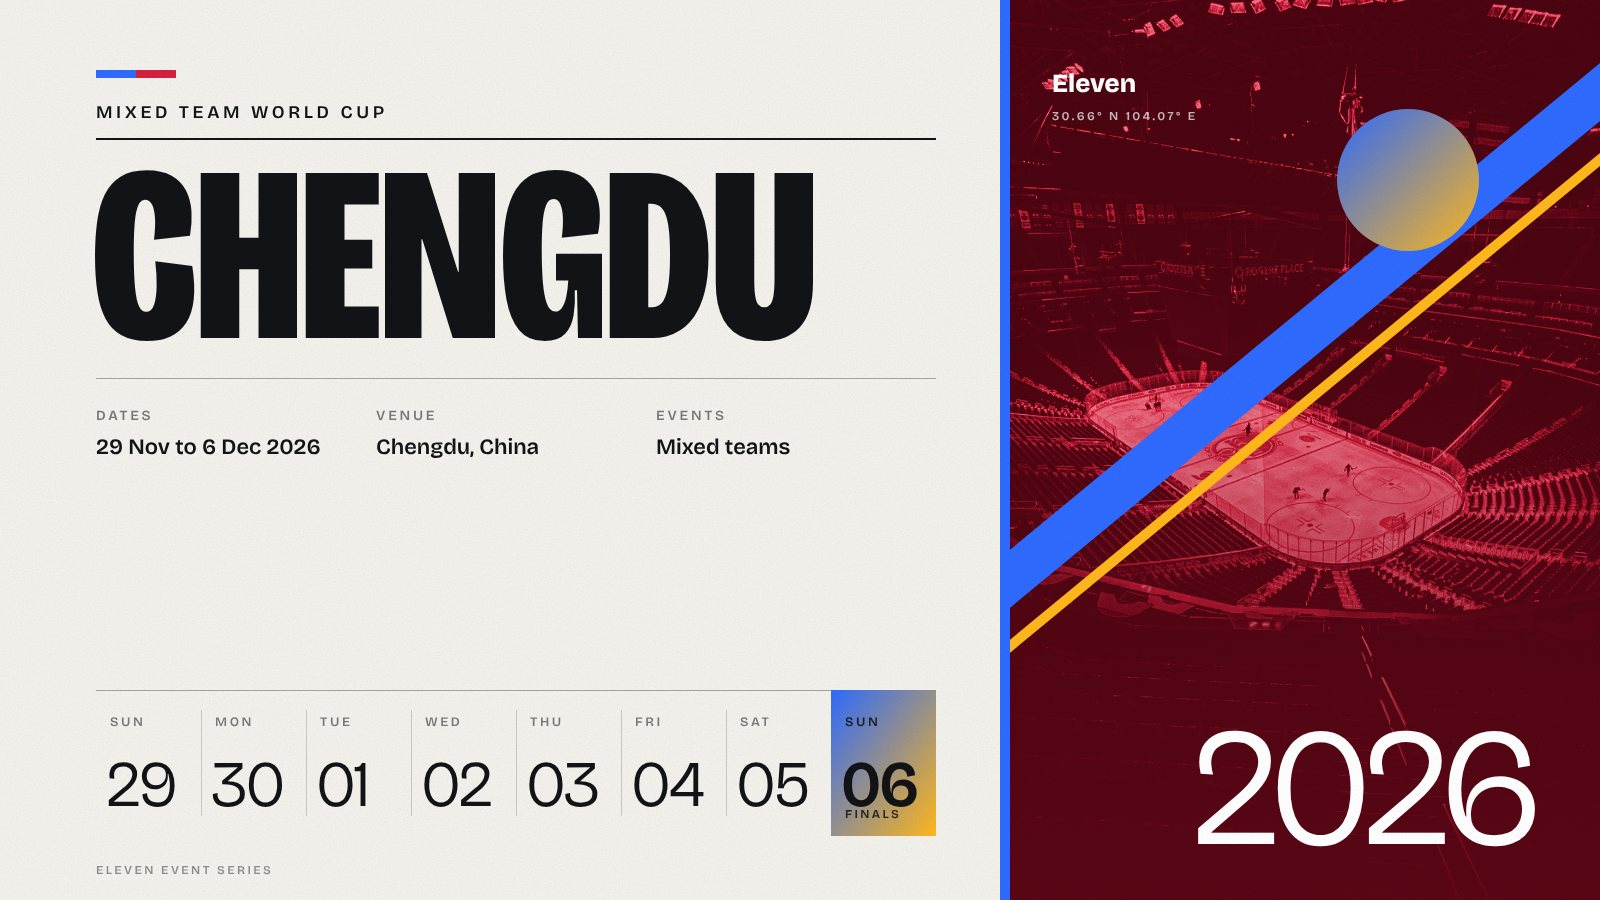
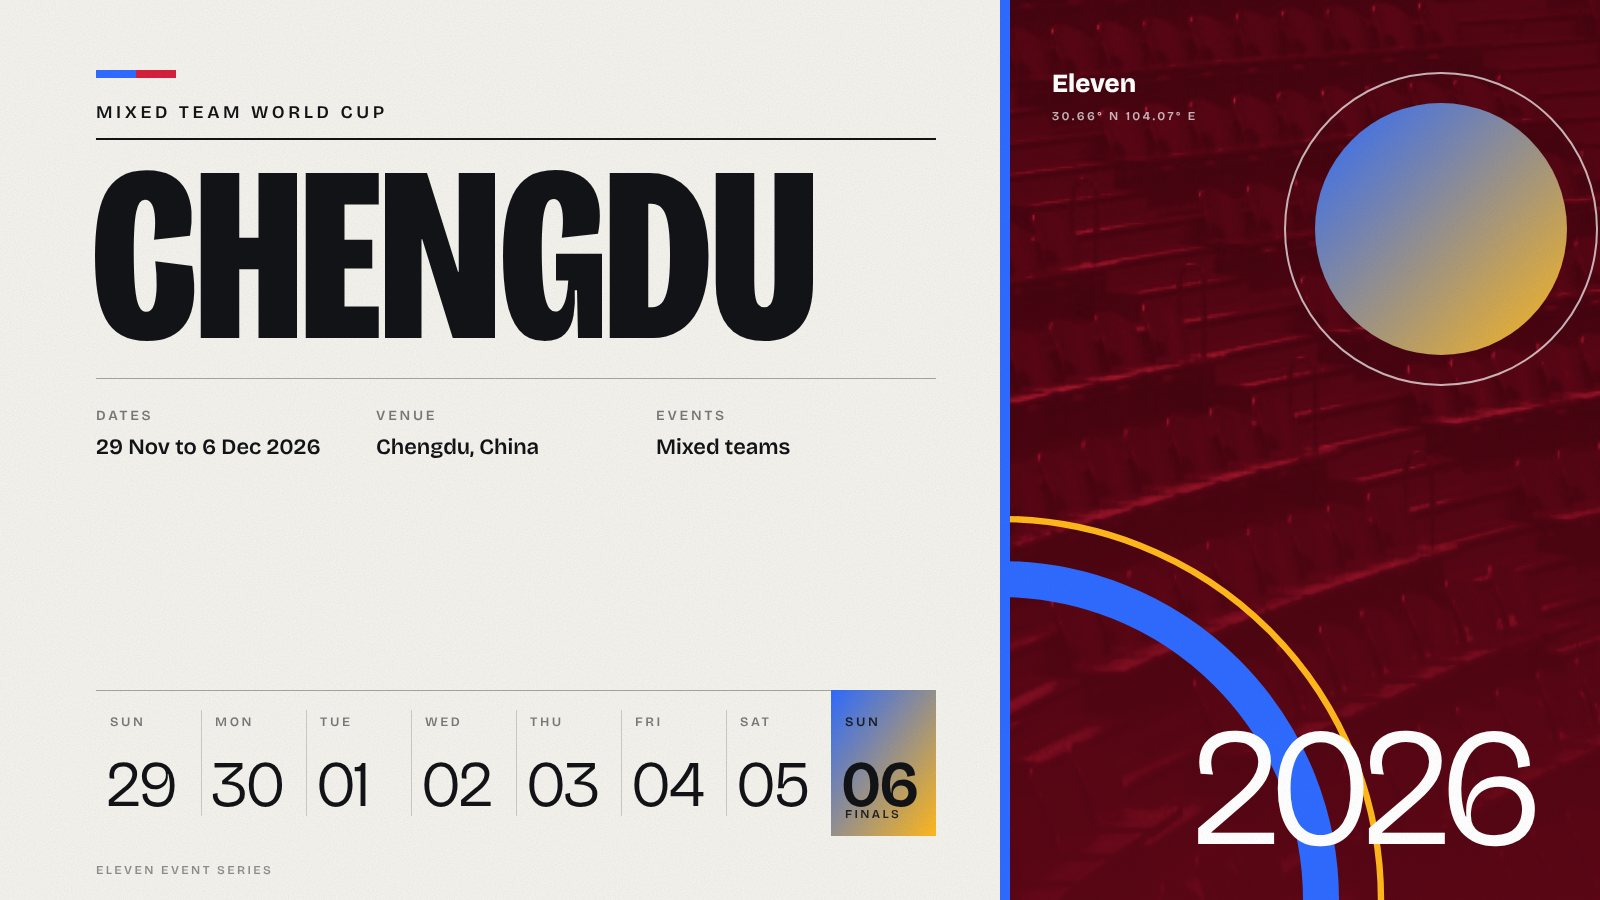
Close-up seat photos on posters; homepage highlights row
Claude-Session: https://claude.ai/code/session_01KHw4UwjXv4GHFy3UrAuNDX

diff --git a/app.js b/app.js
@@ -99,6 +99,41 @@
     return `<article class="card">${art(s, sc)}<div class="card-body">${tag(s)}<${heading}>${title}</${heading}><p>${esc(s.summary)}</p>${meta(s)}</div></article>`;
   };
 
+  // Highlights: two official videos side by side, from the event on now (or the latest one),
+  // rotating through the newest clips and pairing a men's and a women's match when both exist
+  function renderWatch() {
+    const all = (data.highlights || []).filter((v) => v.id);
+    if (all.length < 2) { $("watch").hidden = true; return false; }
+    const hubs = data.hubs || {};
+    const liveHub = data.events.filter((e) => e.start <= today && e.end >= today).map((e) => hubs[e.id]).find(Boolean);
+    const byDate = [...all].sort((a, b) => b.date.localeCompare(a.date));
+    let ev = liveHub && byDate.find((v) => hubs[v.event] === liveHub) ? byDate.find((v) => hubs[v.event] === liveHub).event : byDate[0].event;
+    let pool = byDate.filter((v) => v.event === ev).slice(0, 6);
+    if (pool.length < 2) pool = byDate.slice(0, 6);
+    const turn = Math.floor(Date.now() / 36e5);  // changes every hour
+    const men = pool.filter((v) => v.gender === "M"), women = pool.filter((v) => v.gender === "W");
+    const pick = men.length && women.length ? [men[turn % men.length], women[turn % women.length]]
+      : [pool[(2 * turn) % pool.length], pool[(2 * turn + 1) % pool.length]];
+    const hub = hubs[ev];
+    const head = hub ? `Highlights: <a href="${esc(hub.url)}">${esc(hub.name)} ${esc(hub.year)}</a>` : "Highlights";
+    $("watch").innerHTML = `<h2 id="watch-h" class="section-title">${head}</h2><div class="video-grid">` + pick.map((v) => `<figure class="video">
+      <button type="button" class="yt" data-yt="${esc(v.id)}" aria-label="Play video: ${esc(v.title)}">
+        <img src="https://i.ytimg.com/vi/${esc(v.id)}/hqdefault.jpg" alt="" loading="lazy" width="480" height="360"><span class="yt-play" aria-hidden="true"></span>
+      </button><figcaption>${esc(v.title)}<span>Video: ${esc(v.channel || "YouTube")}</span></figcaption></figure>`).join("") + "</div>";
+    $("watch").hidden = false;
+    return true;
+  }
+  document.addEventListener("click", (ev) => {
+    const b = ev.target.closest("#watch .yt");
+    if (!b) return;
+    const f = document.createElement("iframe");
+    f.src = "https://www.youtube-nocookie.com/embed/" + b.dataset.yt + "?autoplay=1&rel=0";
+    f.title = b.getAttribute("aria-label").replace("Play video: ", "");
+    f.allow = "accelerometer; autoplay; encrypted-media; gyroscope; picture-in-picture; web-share";
+    f.allowFullscreen = true;
+    b.replaceWith(f);
+  });
+
   function render(cat) {
     const list = cat === "All" ? stories : stories.filter((s) => s.category === cat);
     const lead = list.find((s) => s.top) || list[0];
@@ -106,7 +141,11 @@
     $("lead").className = "lead";
     $("lead").innerHTML = lead ? card(lead, "h2") : '<div class="card"><div class="card-body"><p>Nothing in this section yet. New stories arrive with each update.</p></div></div>';
     $("second").innerHTML = rest.slice(0, 3).map((s) => card(s, "h3", false)).join("");
-    $("stories").innerHTML = rest.slice(3).map((s) => card(s)).join("");
+    // Keep the grid's rows full: an odd card out gives way to the highlights row
+    let more = rest.slice(3);
+    const watching = renderWatch();
+    if (watching && more.length % 2) more = more.slice(0, -1);
+    $("stories").innerHTML = more.map((s) => card(s)).join("");
     $("empty").hidden = rest.length > 3;
   }
   // Cartoons are inlined so their speech bubbles use the page's hand-lettered font

diff --git a/styles.css b/styles.css
@@ -581,3 +581,7 @@ footer + * , .footer { margin-top: 0; }
 .rk-bar { position: absolute; left: 6px; bottom: 3px; height: 3px; max-width: calc(100% - 12px); background: var(--International, #2f5fd0); border-radius: 2px; opacity: .55; }
 .mv { font-size: 11px; font-weight: 700; white-space: nowrap; }
 .mv.up { color: #1a9b5b; } .mv.down { color: #d8263a; } .mv.same { color: var(--muted); } .mv.new { color: #f37021; }
+.home-watch { margin-top: 28px; }
+.home-watch .section-title a { color: inherit; }
+.home-watch .video-grid { grid-template-columns: 1fr 1fr; }
+@media (max-width: 560px) { .home-watch .video-grid { grid-template-columns: minmax(0, 1fr); } }

diff --git a/index.html b/index.html
@@ -52,6 +52,7 @@
     <section aria-labelledby="latest-h">
       <h2 id="latest-h" class="section-title">Latest news</h2>
       <div id="stories" class="cards"></div>
+      <section id="watch" class="videos home-watch" aria-labelledby="watch-h" hidden></section>
       <p id="empty" class="empty" hidden>Nothing more in this section yet. New stories arrive with each update.</p>
     </section>
 

diff --git a/tools/posters.py b/tools/posters.py
@@ -97,13 +97,15 @@ ACCENTS = {
 }
 # Licensed photos (Unsplash Licence); align is the crop focus inside the panel
 PHOTOS = {
-    "arena-hall.jpg": ("ARTO SURAJ", "https://unsplash.com/photos/empty-indoor-sports-arena-with-spectator-seating-_XlTp6nHbm0", "xMidYMin"),
+    "hall-lights.jpg": ("ARTO SURAJ", "https://unsplash.com/photos/empty-indoor-sports-arena-with-spectator-seating-_XlTp6nHbm0", "xMidYMid"),
     "seats-rows.jpg": ("Reed Mok", "https://unsplash.com/photos/teal-and-blue-chair-landscape-photography-9oduzVzk8LQ", "xMidYMid"),
+    "seats-blue.jpg": ("Reed Mok", "https://unsplash.com/photos/teal-and-blue-chair-landscape-photography-9oduzVzk8LQ", "xMidYMid"),
     "seats-dark.jpg": ("Milan Csizmadia", "https://unsplash.com/photos/black-and-white-piano-keys-WDLTwagtvSo", "xMidYMid"),
-    "stadium-roof.jpg": ("Winston Tjia", "https://unsplash.com/photos/a-stadium-filled-with-lots-of-empty-seats-4gX2Jj9zDBY", "xMidYMin"),
-    "arena-above.jpg": ("Tim Trad", "https://unsplash.com/photos/white-and-red-airplane-on-top-of-stadium-during-night-time-3PdOKrfzrYM", "xMidYMid"),
-    "dome.jpg": ("TAKAHIRO NISHIZONO", "https://unsplash.com/photos/stadium-seats-under-metal-dome-V06_qJzPt54", "xMidYMin"),
+    "stadium-seats.jpg": ("Winston Tjia", "https://unsplash.com/photos/a-stadium-filled-with-lots-of-empty-seats-4gX2Jj9zDBY", "xMidYMid"),
+    "dome-seats.jpg": ("TAKAHIRO NISHIZONO", "https://unsplash.com/photos/stadium-seats-under-metal-dome-V06_qJzPt54", "xMidYMid"),
 }
+# Photos are close crops of seating, lights or stands: never a whole stadium, so no poster
+# suggests a venue the event isn't played in
 LAYOUTS = 3
 
 

diff --git a/UPDATE.md b/UPDATE.md
@@ -33,6 +33,8 @@ The site is static. All content lives in `data/news.json`; `index.html`, `styles
    - Equal prominence: never give one gender's results more prominence than the other's. If a story covers both men's and women's events, its `matches` must include at least one men's and one women's result (labels starting "Men's" and "Women's"); the site shows them side by side at the same size. Don't put a single-gender score badge (`score`) on a story that covers both. The same goes for headlines, standfirsts and lead paragraphs: where a story covers both, lead with both, not just the men's result.
    - Draws: when an event's draw is published, create `data/draws/<WTT event id>.json` and set `"draw": "<id>"` on the draw story and article. Try `python3 tools/fetch_draw.py <id> "<event name>" <host city UTC offset>` first. If WTT can't be reached, keep the file current by hand from published results: after each round, fill in `winner` (0 or 1), `score` (e.g. "3-1") and the next round's players, and set `updated`. Use the same names as the rest of the site.
    - Videos: add `"videos"` (YouTube `id`, a short `title` in the form "Player A vs Player B, round", and `channel`) when official highlights or full matches exist. Only use channels run by WTT, the ITTF, continental or national federations, league organisers, or their broadcast partners (TT11TV describes itself as a WTT and ETTU partner). Before adding a video, check its title and uploader with `https://www.youtube.com/oembed?url=https://www.youtube.com/watch?v=<id>&format=json`; skip it if you can't confirm it's the right match and an approved channel. Highlights often appear a day or two later, so on every run, check stories and articles from the last seven days that have results but no videos.
+   - Lead image order, everywhere on the site: official video first (the first entry in `videos`), then the event poster (stories with `event`), then a licensed photo, then an illustration. The site applies this automatically; never set a cartoon or photo on an event story to override a video or poster.
+   - Homepage highlights: keep `highlights` in `data/news.json` current with official clips (same channel rules and oEmbed check as `videos`) as `{"id", "title", "channel", "event": "<hub id>", "date", "gender": "M" or "W"}`. On every run during an event, add new highlights from that event's official channels (WTT, ITTF, the organiser, TT11TV), newest first, and drop clips more than 30 days old. The homepage shows two side by side from the event on now (or the latest one), rotating hourly and pairing a men's and a women's clip when both exist, so add women's clips as well as men's.
    - Social posts: add `"social"` (`platform` "instagram" or "x", the post `url`, and `account`) for posts from official accounts only: WTT (@wtt), the ITTF (@ittfworld), continental and national federations, leagues, clubs and the players' own verified accounts. Pick posts about the story's event with match photos or video, check the caption matches, and keep it to one or two per story. Where a story covers men's and women's events, don't feature only one side.
    - Adding or correcting `matches`, `draw`, `videos`, `social` or `image` on an already-published article is a data update, not new writing: commit it straight to `main`, set the article's `modified` time, and leave the article text alone. Changes to the article's wording still go through a review pull request.
    - Lead story (`"top": true`, exactly one story): choose it on every run with these rules, in order.
